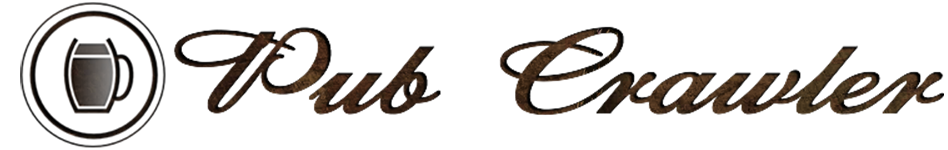
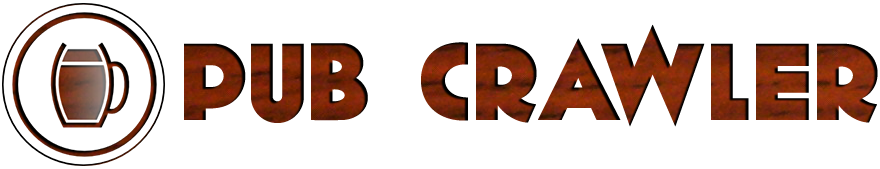
changed brand font

diff --git a/public/views/index.html b/public/views/index.html
@@ -20,9 +20,6 @@
   <!-- google maps -->
   <script type="text/javascript" src="http://maps.googleapis.com/maps/api/js?&libraries=places&sensor=false"></script>
   
-  <!-- font awesome icons cdn -->
-
-  <!-- google fonts -->
 
   <!-- jQuery cdn -->
   <script src="https://ajax.googleapis.com/ajax/libs/jquery/2.1.4/jquery.min.js"></script>

diff --git a/public/styles/style.css b/public/styles/style.css
@@ -1,10 +1,5 @@
 /*======= Global Styling ============*/
 
-@font-face {
-  font-family: brewmaster;
-  src: url(/fonts/brewmaster.otf);
-}
-
 *:focus {
   outline: 0 !important;
 }
